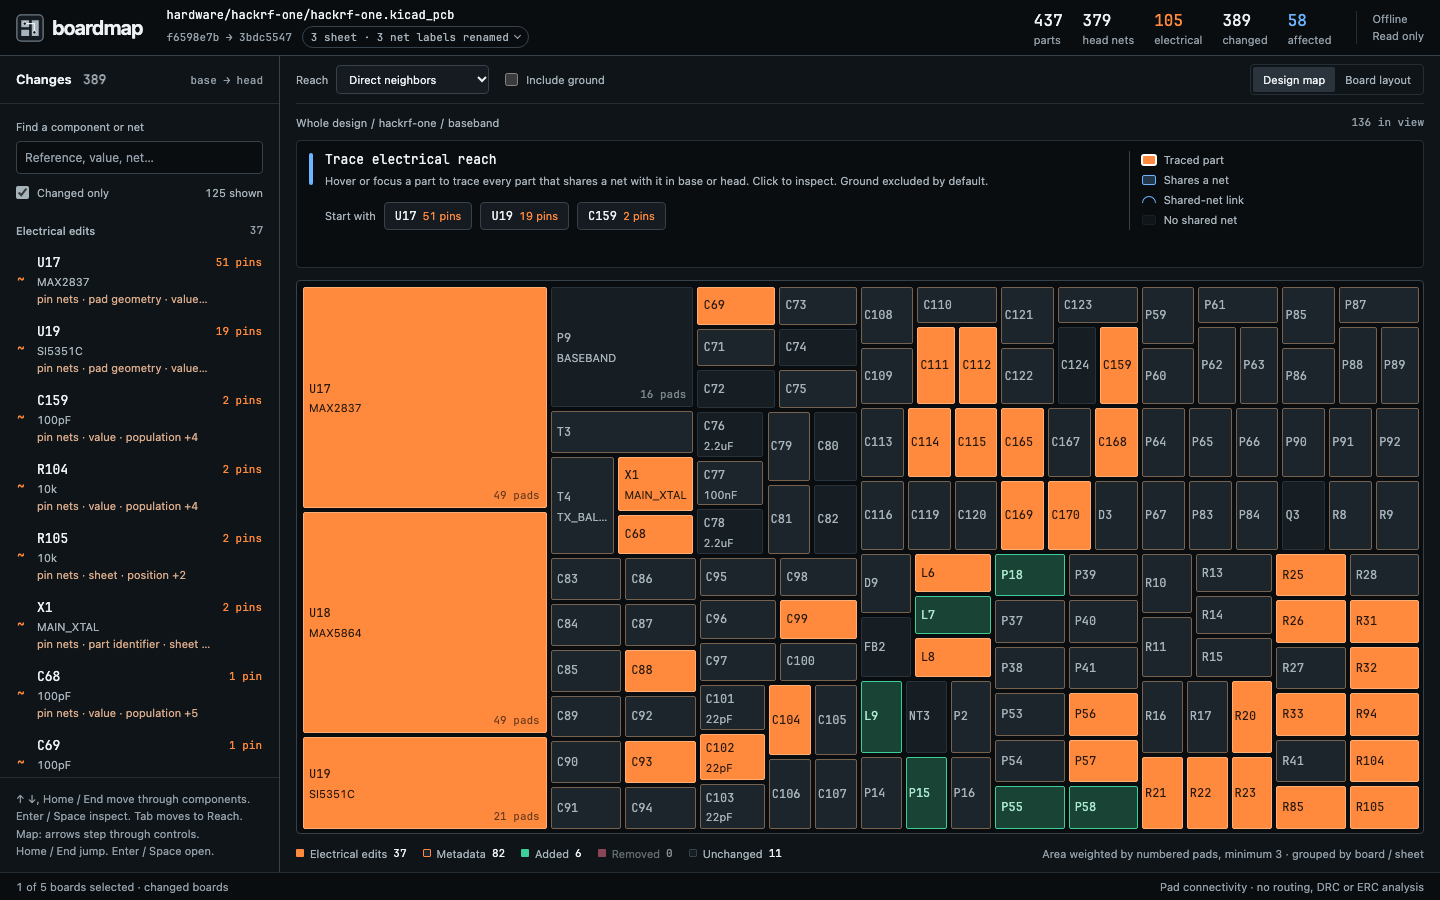
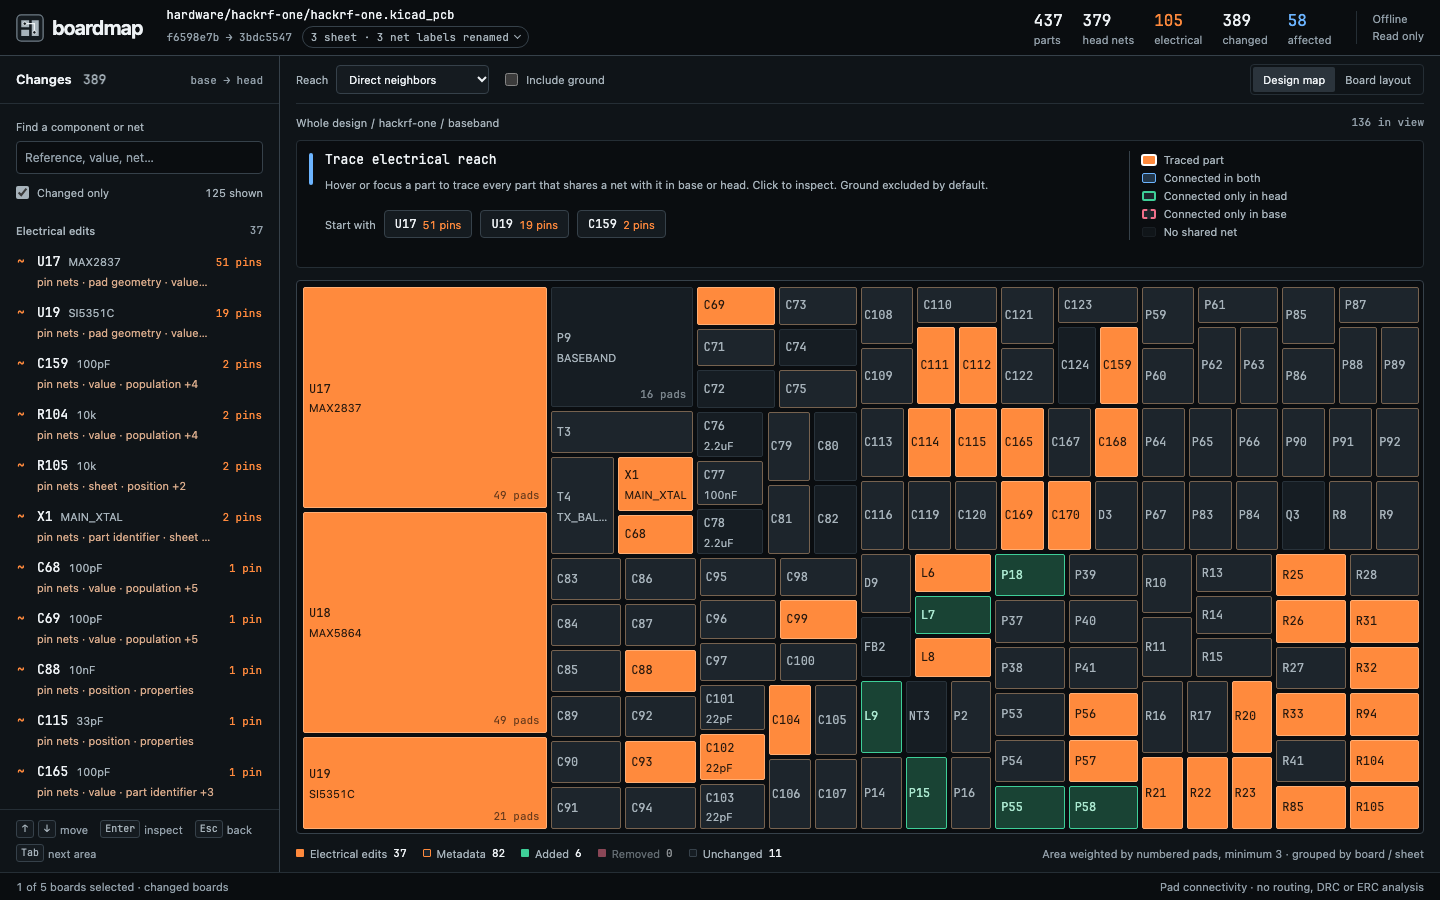
Capture traces that separate added and removed connections

diff --git a/docs/media/ui/README.md b/docs/media/ui/README.md
@@ -10,8 +10,8 @@ Actual Chromium captures of the running UI on the pinned HackRF PR 1411 and Corn
 | `inspector/inspector-geometry.png` | 1440 × 900 | Changed pad geometry scrolls inside its own bounded disclosure. Each pad group lists named properties with units, repeated pads share one description, and only changed values carry color. |
 | `inspector/inspector-unchanged.png` | 1440 × 900 | An unchanged part has no red or green cells. |
 | `inspector/inspector-added.png`, `inspector/inspector-removed.png` | 1440 × 900 | Only the revision that holds the part carries color. The other side shows a muted empty mark. |
-| `map/hackrf/map-idle.png`, `map/corne/map-idle.png` | 1440 × 900 | Sheet headers count their electrical changes. The legend counts every tile class in view. The idle readout holds the trace key and the three largest electrical changes. |
-| `map/hackrf/map-reach.png`, `map/corne/map-reach.png` | 1440 × 900 | Hovering U17 or ZD1 draws curves that leave and meet tiles square to their edges. |
+| `map/hackrf/map-idle.png`, `map/corne/map-idle.png` | 1440 × 900 | Sheet headers count their electrical changes. The legend counts every tile class in view. The idle readout holds the five-mark trace key and the three largest electrical changes. |
+| `map/hackrf/map-reach.png`, `map/corne/map-reach.png` | 1440 × 900 | Hovering U17 or ZD1 draws curves that leave and meet tiles square to their edges. Neighbors connected only in head are green, neighbors connected only in base are dashed pink, and neighbors connected in both stay blue. Curves pass behind part names and sheet headers. |
 | `map/hackrf/sheet.png`, `map/hackrf/sheet-reach.png`, `map/corne/sheet.png`, `map/corne/sheet-reach.png` | 1440 × 900 | A drilled sheet, idle and traced. |
 | `map/hackrf/phone-idle.png`, `map/hackrf/phone-preview.png` | 390 × 844 | The phone readout keeps one height. Idle, it holds the key and the starting parts. After a tap, it holds the trace and the Open diff action. Reach, ground and the view switch share one row, so the map starts in the upper half of the screen. |
 | `sidebar/list-desktop.png` | 1440 × 900 | Each change takes two lines, so eleven rows fit where eight did. Group headings stay pinned while the list scrolls. The keyboard help is two lines of key caps. |
